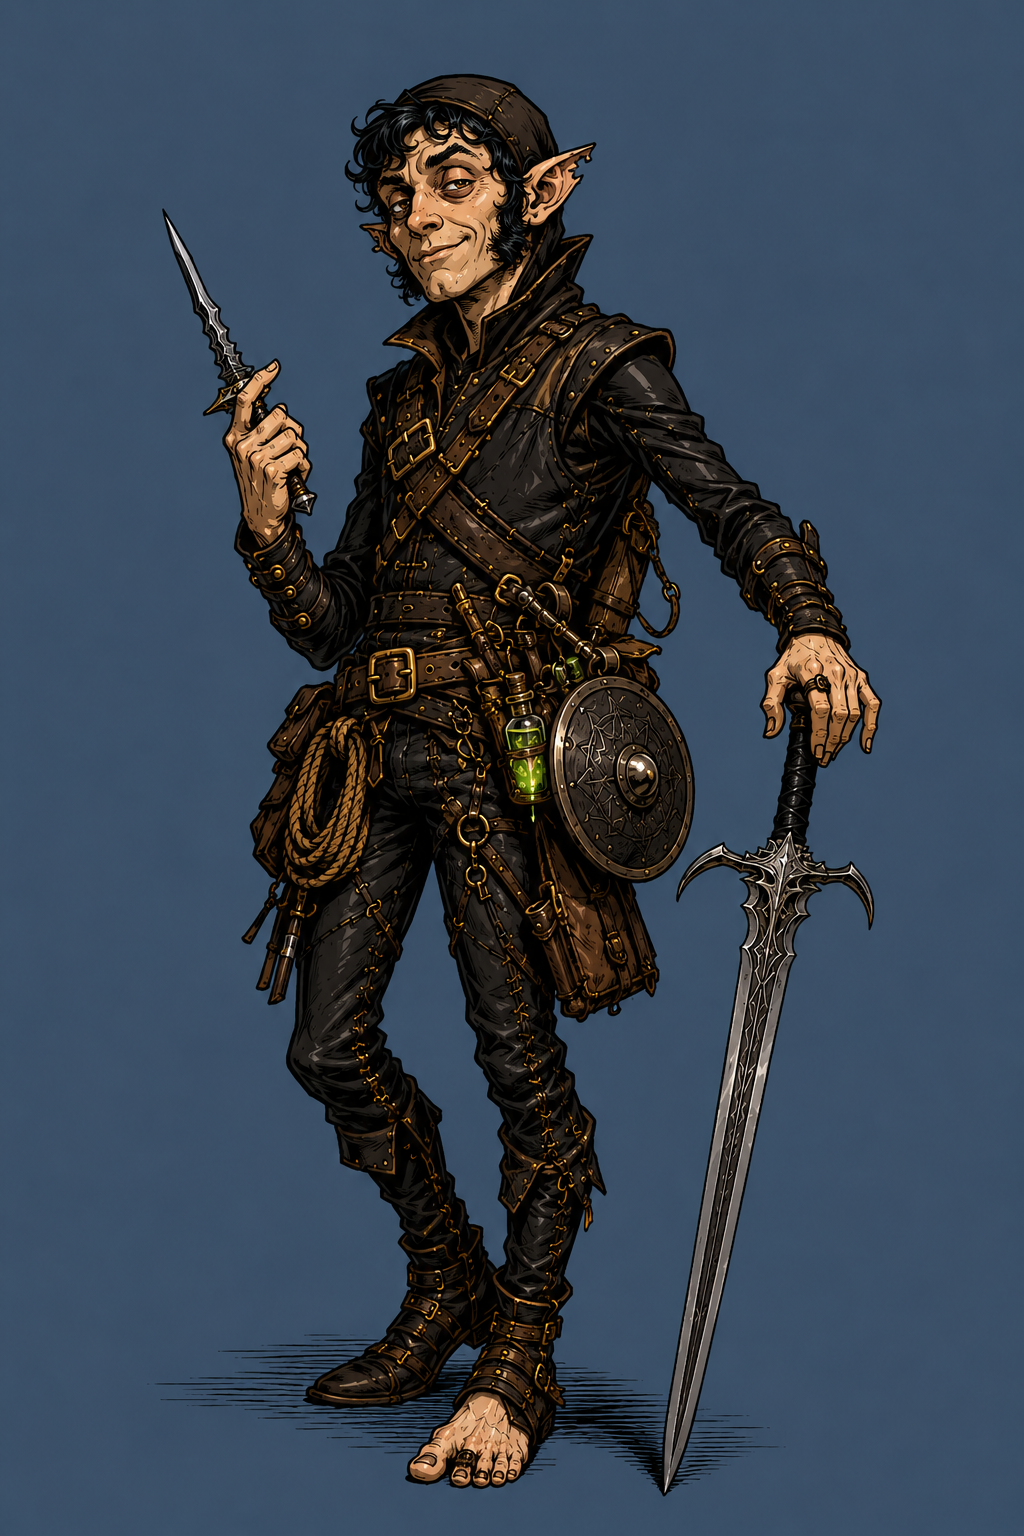
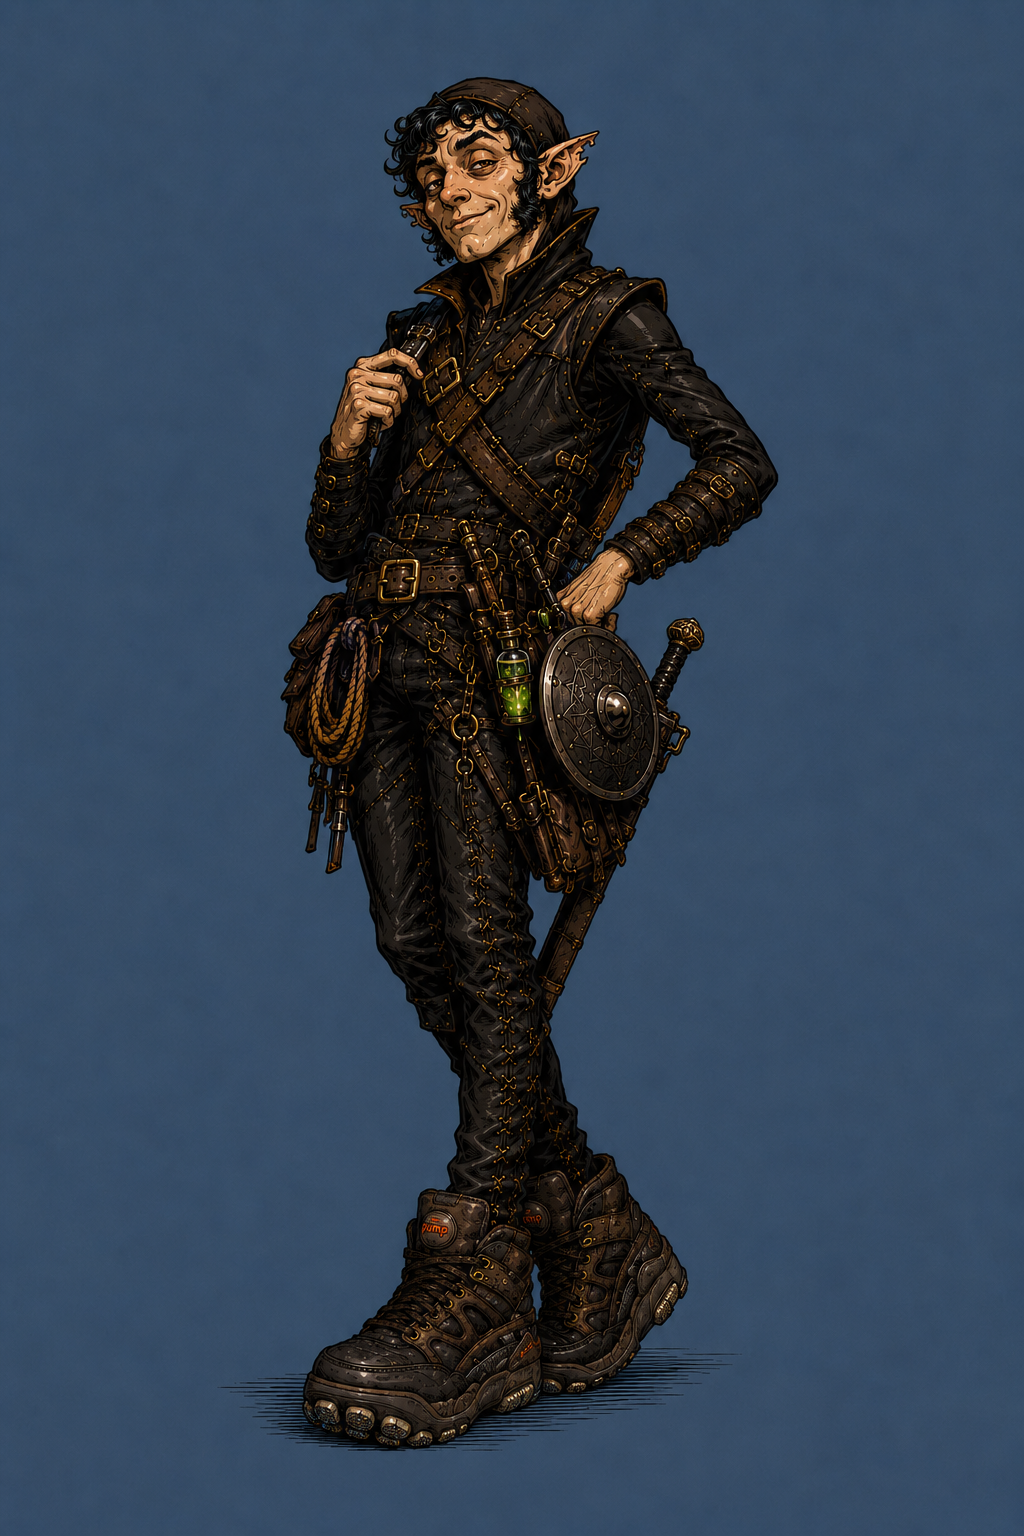
Release v1.3.0 — Issue 11 published

Changed region(s): [[0.1562, 0.0312, 0.875, 0.9688]]

diff --git a/panels/journey-rod-of-seven-parts/issue-11/manifest.js b/panels/journey-rod-of-seven-parts/issue-11/manifest.js
@@ -1,0 +1,51 @@
+// List your page image filenames below, in reading order.
+// Example: "pages": ["page-01.png", "page-02.png", "page-03.png"]
+window.CLUTCH_MANIFEST = {
+  "issue": 11,
+  "pages": [
+    "Cover.webp",
+    "p1.webp",
+    "p2.webp",
+    "p3.webp",
+    "p4.webp",
+    "p5.webp",
+    "p6.webp",
+    "p7.webp",
+    "p8.webp",
+    "p9.webp",
+    "p10.webp",
+    "p11.webp",
+    "p12.webp",
+    "p13.webp",
+    "p14.webp",
+    "p15.webp",
+    "p16.webp",
+    "p17.webp",
+    "p18.webp",
+    "p19.webp",
+    "p20.webp",
+    "p21.webp",
+    "p22.webp",
+    "p23.webp",
+    "p24.webp",
+    "p25.webp",
+    "p26.webp",
+    "p27.webp",
+    "p28.webp",
+    "p29.webp",
+    "p30.webp",
+    "p31.webp",
+    "p32.webp",
+    "p33.webp",
+    "p34.webp",
+    "p35.webp",
+    "p36.webp",
+    "p37.webp",
+    "p38.webp",
+    "p39.webp",
+    "p40.webp",
+    "p41.webp",
+    "p42.webp",
+    "p43.webp"
+  ]
+};

diff --git a/data/issues.js b/data/issues.js
@@ -30,6 +30,12 @@ window.CLUTCH_DATA = {
           "number": 10,
           "title": "Issue 10",
           "folder": "journey-rod-of-seven-parts/issue-10"
+        },
+        {
+          "id": 11,
+          "number": 11,
+          "title": "Issue 11",
+          "folder": "journey-rod-of-seven-parts/issue-11"
         }
       ]
     },

diff --git a/CHANGELOG.md b/CHANGELOG.md
@@ -5,6 +5,12 @@ All notable changes to this site are recorded here. Format loosely follows
 [Semantic Versioning](https://semver.org/) — MAJOR for big structural/hosting
 changes, MINOR for new features or content sections, PATCH for small fixes.
 
+## [1.3.0] - 2026-08-09
+
+### Added
+- Issue 11 published to **Journey of the Rod of Seven Parts** (cover + 42
+  pages), converted from raw PNG to WebP via `publish_issue.py`.
+
 ## [1.2.0] - 2026-08-04
 
 ### Added
